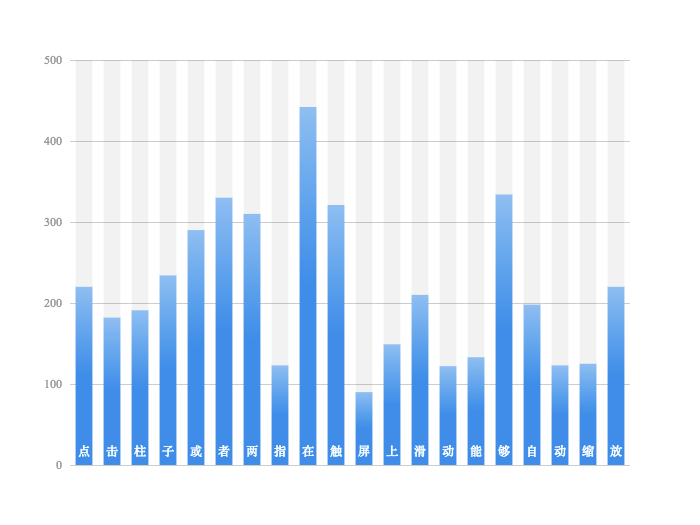
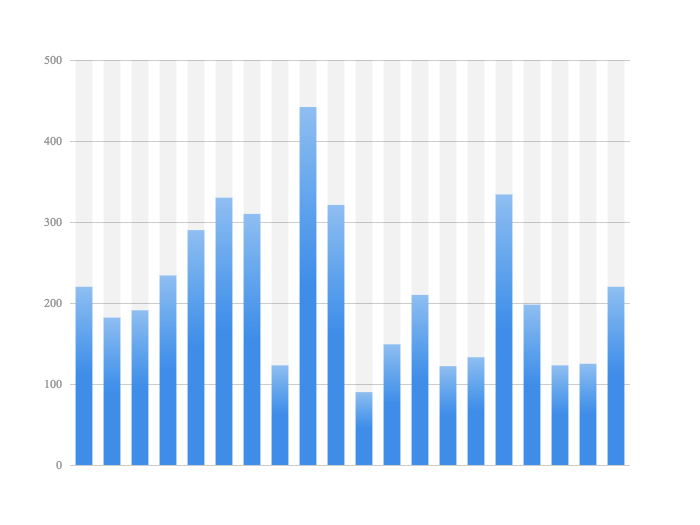
bar-gradient

Changed region(s): [[0.27, 0.8533, 0.9, 0.8838], [0.15, 0.8533, 0.21, 0.8838]]

diff --git a/src/demos/Bar/gradient.vue b/src/demos/Bar/gradient.vue
@@ -9,6 +9,108 @@ export default {
     uiDemos
   },
   mounted() {
+    let width = 700,
+      height = 500;
+
+    let painter = $$("<svg></svg>")
+      // 设置画布大小
+      .attr({
+        width,
+        height
+      })
+      // 画布添加到页面
+      .appendTo("#demo")
+      // 获取画笔
+      .painter();
+
+    let data = [
+      220,
+      182,
+      191,
+      234,
+      290,
+      330,
+      310,
+      123,
+      442,
+      321,
+      90,
+      149,
+      210,
+      122,
+      133,
+      334,
+      198,
+      123,
+      125,
+      220
+    ];
+    let maxVal = 500;
+
+    painter.config({
+      textAlign: "right",
+      fillStyle: "gray",
+      "font-size": 12
+    });
+    // 绘制刻度
+    for (let i = 0; i <= 5; i++) {
+      painter
+        // 文字
+        .bind("<text>")
+        .appendTo()
+        .fillText(i * 100, 30, height - 10 - (height - 20) / 5 * i)
+        // 线条
+        .bind("<path>")
+        .appendTo()
+        .beginPath()
+        .moveTo(40, height - 10 - (height - 20) / 5 * i)
+        .lineTo(width, height - 10 - (height - 20) / 5 * i)
+        .stroke();
+    }
+
+    // 准备渐变色
+    let gradientColor = painter
+      .createLinearGradient(50, 0, 50, 100)
+      .addColorStop(0, "#8bf")
+      .addColorStop(0.3, "#83bff6")
+      .addColorStop(0.7, "#188df0")
+      .addColorStop(1, "#188df0")
+      .value();
+
+    // 绘制条形图(使用数据绑定快速绘制)
+    let dis = (width - 60) / data.length;
+    $$("g")
+      .data(data)
+      .enter("<g>")
+      .appendTo("svg")
+      .loop((data, index, target) => {
+        painter
+
+          // 先绘制背景灰色条纹
+          .config("fillStyle", "rgba(231, 231, 231,90)")
+          .bind("<rect>")
+          .appendTo(target)
+          .fillRect(50 + index * dis, 10, dis * 0.7, height - 20);
+        // 值的条纹(初始化)
+        let valDis = data / maxVal * (height - 20);
+        painter
+          .config("fillStyle", gradientColor)
+          .bind("<rect>")
+          .appendTo(target)
+          .fillRect(50 + index * dis, height - 10, dis * 0.7, 0);
+
+        $$.animation(deep => {
+          // 值的条纹(动画修改)
+          painter
+            .bind($$("rect", target[0])[1])
+            .fillRect(
+              50 + index * dis,
+              height - 10 - valDis * deep,
+              dis * 0.7,
+              valDis * deep
+            );
+        }, 1000);
+      });
   }
 };
 </script>

diff --git a/dist/16.main.js b/dist/16.main.js
@@ -1,1 +1,1 @@
-(window.webpackJsonp=window.webpackJsonp||[]).push([[16],{42:function(e,t,n){"use strict";n.r(t);var r=function(){var e=this.$createElement;return(this._self._c||e)("ui-demos",{attrs:{url:"Bar/gradient"}},[this._v("渐变色")])};r._withStripped=!0;var s=n(22),i=(n(21),{components:{uiDemos:s.a},mounted(){}}),o=n(3),a=Object(o.a)(i,r,[],!1,null,null,null);a.options.__file="src/demos/Bar/gradient.vue";t.default=a.exports}}]);
+(window.webpackJsonp=window.webpackJsonp||[]).push([[16],{42:function(e,t,o){"use strict";o.r(t);var n=function(){var e=this.$createElement;return(this._self._c||e)("ui-demos",{attrs:{url:"Bar/gradient"}},[this._v("渐变色")])};n._withStripped=!0;var i=o(22),l=o(21),a=o.n(l),r={components:{uiDemos:i.a},mounted(){let e=a()("<svg></svg>").attr({width:700,height:500}).appendTo("#demo").painter(),t=[220,182,191,234,290,330,310,123,442,321,90,149,210,122,133,334,198,123,125,220];e.config({textAlign:"right",fillStyle:"gray","font-size":12});for(let t=0;t<=5;t++)e.bind("<text>").appendTo().fillText(100*t,30,490-96*t).bind("<path>").appendTo().beginPath().moveTo(40,490-96*t).lineTo(700,490-96*t).stroke();let o=e.createLinearGradient(50,0,50,100).addColorStop(0,"#8bf").addColorStop(.3,"#83bff6").addColorStop(.7,"#188df0").addColorStop(1,"#188df0").value(),n=640/t.length;a()("g").data(t).enter("<g>").appendTo("svg").loop((t,i,l)=>{e.config("fillStyle","rgba(231, 231, 231,90)").bind("<rect>").appendTo(l).fillRect(50+i*n,10,.7*n,480);let r=t/500*480;e.config("fillStyle",o).bind("<rect>").appendTo(l).fillRect(50+i*n,490,.7*n,0),a.a.animation(t=>{e.bind(a()("rect",l[0])[1]).fillRect(50+i*n,490-r*t,.7*n,r*t)},1e3)})}},d=o(3),p=Object(d.a)(r,n,[],!1,null,null,null);p.options.__file="src/demos/Bar/gradient.vue";t.default=p.exports}}]);
